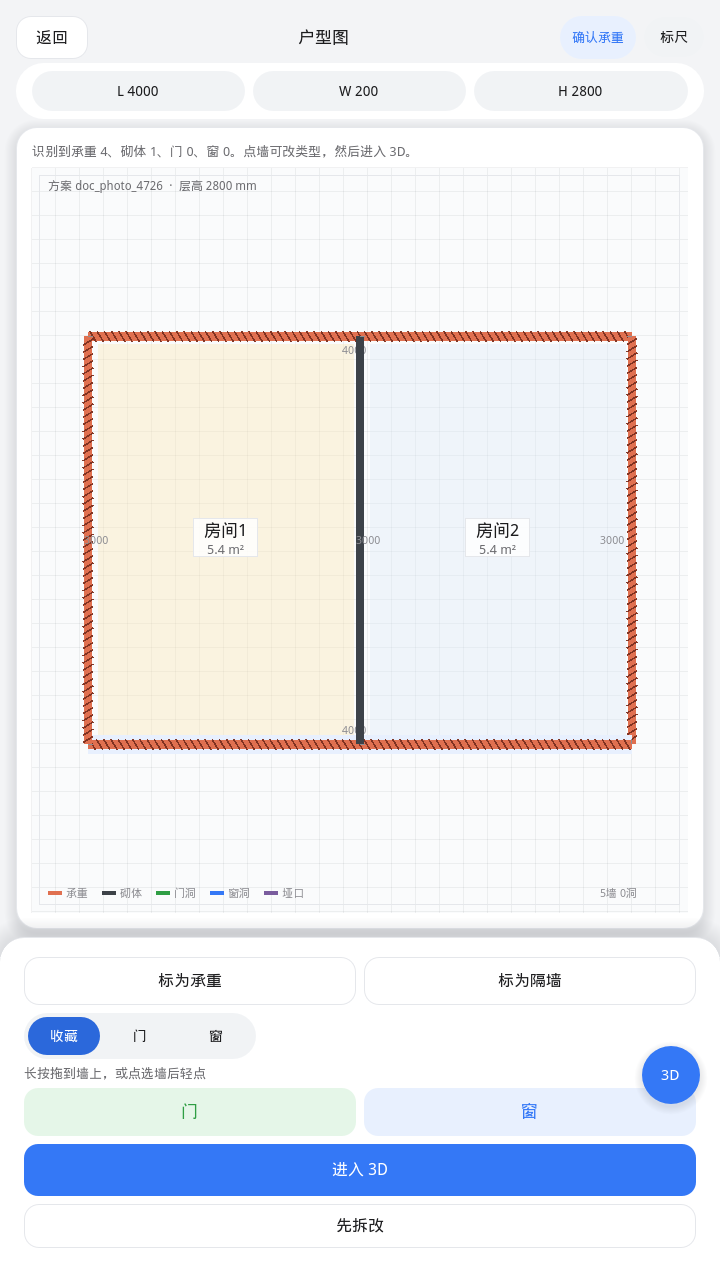
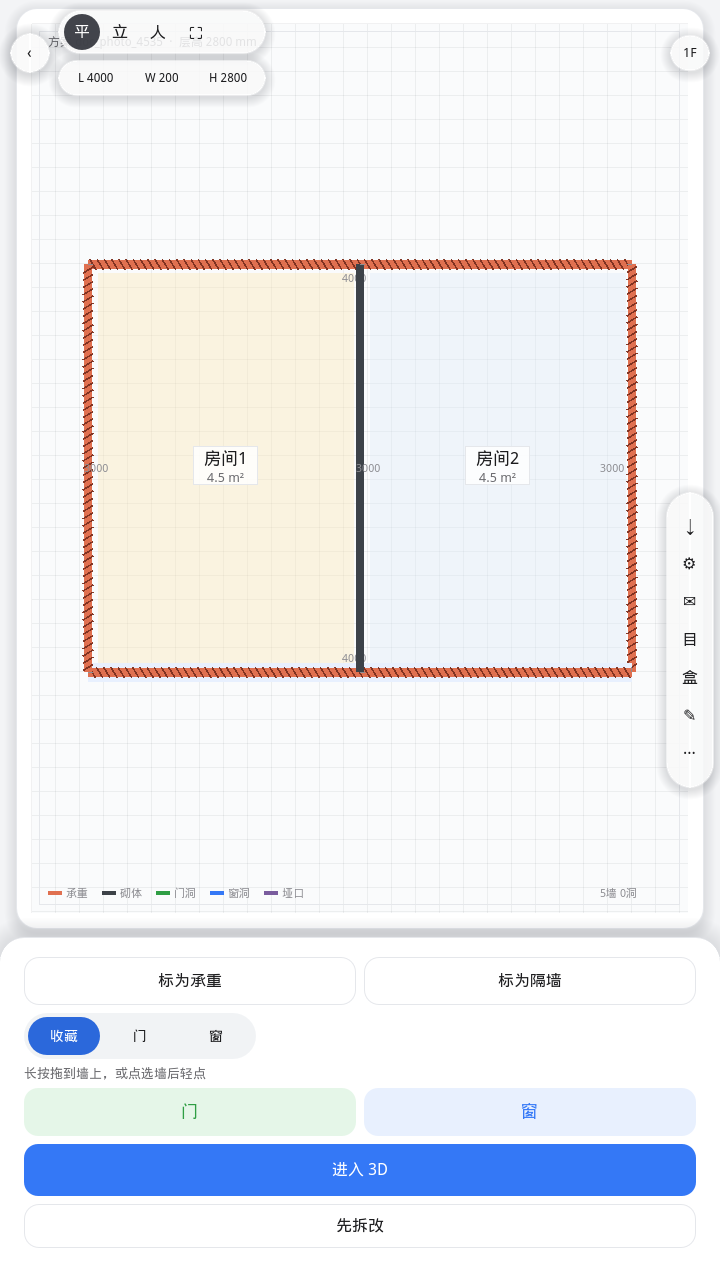
docs: JoyPlan three-zone chrome layout + host screenshots
Spec §10 maps the TikTok @joyplan.app 3D chrome (top / right rail /
joystick). 2D review and 3D captures show the frosted overlay.

diff --git a/docs/architecture/joyplan-interaction-spec.md b/docs/architecture/joyplan-interaction-spec.md
@@ -265,7 +265,7 @@ DraggingAsset
 
 | URL | 标题/账号 | 观察到的交互要点 | 日期 |
 |---|---|---|---|
-| （待补） | | | |
+| （用户截图，完整 URL 未提供） | TikTok `@joyplan.app` 0:18 / 0:35 | 3D 三区 chrome：顶栏返回+四模式+LWH+1F；右侧竖轨保存/设置/消息/图层/库/编辑/更多；底栏撤销重做+虚拟摇杆+灯光+绿色主按钮 | 2026-09-18 |
 
 ---
 
@@ -274,3 +274,26 @@ DraggingAsset
 | 日期 | 变更 |
 |---|---|
 | 2026-09-18 | 初版：融合 V1 视频拆解 + joyplan-prd 第 3–4 章 + 樂規畫课程目录；给出拓间差距与分 commit 实施计划 |
+| 2026-09-18 | 增补 §10 Chrome 三区布局（TikTok @joyplan.app 截图）；Godot 2D/3D 落地 frosted pills |
+
+---
+
+## 10. Chrome 三区布局（V1 3D 截图）
+
+证据：用户 2026-09-18 提供的 JoyPlan 3D 工作台截图（TikTok `@joyplan.app`）。视频播放器控件忽略。样式：半透明磨砂圆/胶囊，画布最大化。
+
+| 区 | 控件 | 拓间接线 |
+|---|---|---|
+| **顶栏** | 返回圆钮 | 2D `_back` / 3D 回首页 |
+| | 四模式：平面 / 立体（选中） / 漫游 / 展开 | `plan`→`photo_stub`；`cube`→`edit_3d`；`roam`→`roam.tscn`；`expand` 收起轨与底栏 |
+| | L / W / H 磨砂条 | 点数字 → `numeric_sheet` → 命令 |
+| | `1F` 楼层芯片 | P0 一层；toast「多层 P1」 |
+| **右侧竖轨** | 保存、设置、消息、图层（眼）、构件库（盒）、编辑（笔）、更多 | 保存=`auto_save`；眼=标尺 sheet；盒=门窗库；笔=上下文工具条；设置/消息 toast 稍后；更多=加载夹具（3D） |
+| **底栏（仅 3D）** | 撤销 / 重做 | toast「命令历史 P1」 |
+| | 大虚拟摇杆 | 环视：改 `_yaw` / `_pitch` |
+| | 太阳 | `Lighting.toggle_preset` 白天/暖光 |
+| | 绿色主按钮 | `export_deliverables` |
+
+2D 工作台共用顶栏 + 右轨，**没有摇杆**。实现：`godot/app/ui/joyplan_chrome.gd`。
+
+截图：`docs/screenshots/04-photo-review-kinds.png`（2D）、`docs/screenshots/07-edit-3d-day.png`（3D）。

diff --git a/docs/architecture/ux-joyplan-interaction-mapping.md b/docs/architecture/ux-joyplan-interaction-mapping.md
@@ -25,7 +25,8 @@ mapping below is the host implementation notes; do not paraphrase the spec.
 | 4 | Room fill + name / area on 2D | `plan_canvas.gd` `_draw_room_fills` | **View only.** Flood pockets of closed walls; labels from SceneIR `rooms` when present |
 | 5 | Bottom-sheet door/window library, long-press drag, snap | `opening_library.gd` + `plan_canvas.snap_opening` | `Session.add_opening(kind, wall_id, offset_mm)` |
 | 6 | Select entity → contextual toolbar + top L/W/H | 2D: `photo_stub.gd` readout + `_ctx`; 3D: `edit_3d.gd` `_lwh` / `_ctx` | Kind changes: `set_wall_kind`. Dims are readout of SceneIR (3D drag still commits via gizmos, ADR-002) |
-| 7 | FAB 2D ↔ 3D | Round FAB on review sheet and 3D HUD | Scene switch only. 3D edit gizmos / lighting / StatusGate preview unchanged (ADR-002) |
+| 7 | FAB 2D ↔ 3D | Round FAB **or** top mode 平/立 | Scene switch only. 3D edit gizmos / lighting / StatusGate preview unchanged (ADR-002) |
+| 8 | Three-zone chrome | `joyplan_chrome.gd` on 2D review + 3D | Visualization. See spec §10 |
 
 Optional polish (same host, still Visualization-only):
 
@@ -44,8 +45,9 @@ Out of scope (not mapped): Elevation Index CAD dark mode; electric/furniture lib
 | `godot/app/scale_calibrate.gd` | Handles A/B, loupe, mm sheet |
 | `godot/app/plan_canvas.gd` | SceneIR 2D view: fills, hatch, snap, drop preview |
 | `godot/app/opening_library.gd` | Bottom-sheet chips; long-press drag ghost |
-| `godot/app/photo_stub.gd` | Import → calibrate → review/demolish sheet + FAB |
-| `godot/app/edit_3d.gd` | Command-synced 3D; L/W/H; FAB back to 2D; dim overlay |
+| `godot/app/ui/joyplan_chrome.gd` | Frosted three-zone chrome (top modes + LWH + 1F, right rail, 3D joystick) |
+| `godot/app/photo_stub.gd` | Import → calibrate → review/demolish + shared chrome |
+| `godot/app/edit_3d.gd` | Command-synced 3D; chrome; L/W/H sheet; dim overlay |
 | `godot/app/session.gd` | InteractionShell façade |
 | `godot/extension/src/toporoom_host.cpp` | `import_vision_image(path, mm_per_px)` |
 

diff --git a/docs/screenshots/README.md b/docs/screenshots/README.md
@@ -10,10 +10,10 @@
 | [02-guide.png](./02-guide.png) | 引导量房：底部操作条 |
 | [03-photo-pick.png](./03-photo-pick.png) | 拍户型图 / 从相册导入 / 示例图 |
 | [09-photo-preview.png](./09-photo-preview.png) | 选图后预览，开始识墙 |
-| [04-photo-review-kinds.png](./04-photo-review-kinds.png) | 确认承重：L/W/H chips、收藏/门/窗 库、房间 m²、FAB 3D |
+| [04-photo-review-kinds.png](./04-photo-review-kinds.png) | 确认承重：JoyPlan 顶栏+右轨、房间 m²、门窗库 |
 | [05-demolish.png](./05-demolish.png) | 拆改：砌体直接拆；承重二次确认 copy |
 | [06-shear-confirm.png](./06-shear-confirm.png) | 确认拆除承重墙（再点一次确认 / 先不拆） |
-| [07-edit-3d-day.png](./07-edit-3d-day.png) | 3D 编辑 · 白天 + 底栏库 + 标尺 + FAB 2D |
+| [07-edit-3d-day.png](./07-edit-3d-day.png) | 3D：三区 chrome（顶栏模式+LWH、右轨、摇杆/灯光/绿钮） |
 | [08-edit-3d-warm.png](./08-edit-3d-warm.png) | 3D 编辑 · 暖光预设 |
 
 ## 01 首页
@@ -38,7 +38,7 @@
 
 ## 04 确认承重
 
-点墙切换种类。顶栏 L/W/H 可点进数字底栏。底栏 收藏/门/窗 长按拖放到墙。
+点墙切换种类。顶栏 JoyPlan 模式条 + L/W/H；右侧工具轨；底栏门窗库。
 
 ![确认承重](./04-photo-review-kinds.png)
 
@@ -51,6 +51,8 @@
 ![承重墙拆除确认](./06-shear-confirm.png)
 
 ## 07 3D 编辑 · 白天
+
+JoyPlan 三区：顶栏 平/立/人/⛶ + LWH + 1F；右轨；底栏撤销/摇杆/灯光/绿色导出。
 
 ![3D 编辑白天](./07-edit-3d-day.png)
 
